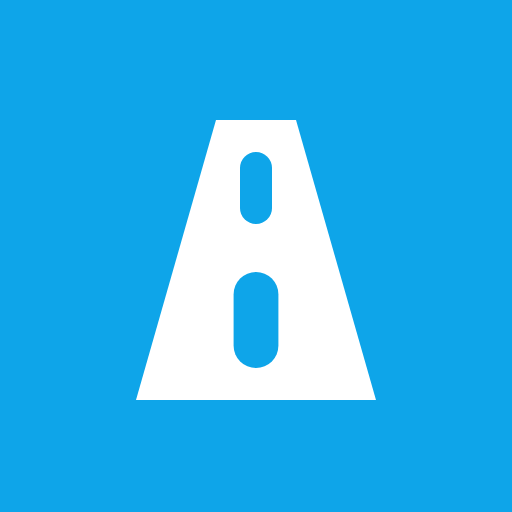
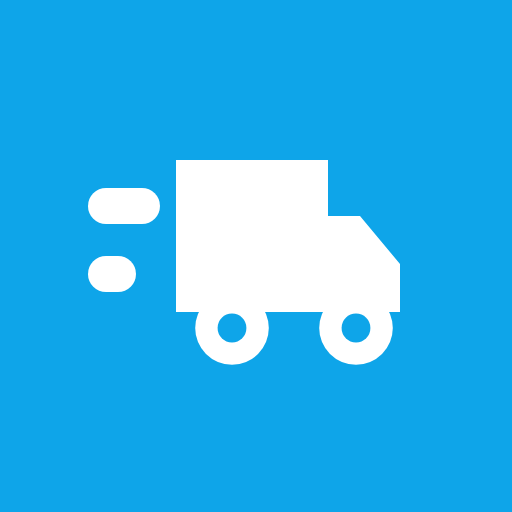
feat(brand): van mark from owner's sketch, simplified for small sizes
The owner drew a delivery van in an orange ring with speed lines and a
"24" under it. The drawing is good and it is now the brand mark, but
three things had to change so it survives where an icon actually lives:

- solid fill instead of an outline: a 2px stroke is half a pixel at 16px
  and turns to grey mush;
- no "24": the finest detail disappears first, and the wordmark next to
  the sign carries it anyway;
- full-bleed square tile, mark kept compact in the middle: Google crops
  favicons to a circle over white, so a drawing that is itself a ring
  shows up with the white halo he complained about.

Header and footer logo use the same geometry as the favicon, so the tab,
the search result and the site all show one sign. Checked: every border
pixel is brand blue at alpha 255 in all sizes, and the van still reads
at 16px under a circular crop.

Changed region(s): [[0.25, 0.2188, 0.7812, 0.7812], [0.1562, 0.3438, 0.3125, 0.4375], [0.1562, 0.5, 0.2812, 0.5938]]

diff --git a/templates/partials/_logo.html b/templates/partials/_logo.html
@@ -1,17 +1,24 @@
-{# Знак бренду — та сама дорога, що й у фавіконі.
+{# Знак бренду — той самий фургон, що й у фавіконі.
 
    Малюємо inline-SVG, а не <img>: логотип стоїть у шапці на кожній
-   сторінці, тож окремий запит за 300 байтами не має сенсу, а inline
-   до того ж дає CSS-контроль над кольором.
+   сторінці, тож окремий запит за 400 байтами не має сенсу, а inline
+   до того ж дає CSS-контроль над кольором (у футері плитка світла, а
+   фургон — синій, і це робиться однією змінною).
 
-   Раніше тут був круглий значок «24» поруч зі словом «Веземо». Тепер
-   назва пишеться повністю («Vezemo24»), а знак несе дорогу — той самий
-   малюнок, що у вкладці браузера й у видачі Google. #}
+   Геометрія збігається з static/brand/favicon.svg піксель у піксель.
+   Якщо правити тут — правити і там, інакше вкладка браузера й шапка
+   сайту почнуть показувати різні знаки. #}
 <svg class="logo__mark" viewBox="0 0 64 64" width="40" height="40" aria-hidden="true" focusable="false">
   <rect width="64" height="64" rx="12" fill="currentColor"/>
-  <path d="M17 50 L27 15 L37 15 L47 50 Z" fill="var(--logo-road, #ffffff)"/>
+  <g fill="var(--logo-road, #ffffff)">
+    <rect x="11" y="23.5" width="9" height="4.5" rx="2.25"/>
+    <rect x="11" y="32" width="6" height="4.5" rx="2.25"/>
+    <path d="M22 20 H41 V27 H45 L50 33 V39 H22 Z"/>
+    <circle cx="29" cy="41" r="4.6"/>
+    <circle cx="44.5" cy="41" r="4.6"/>
+  </g>
   <g fill="currentColor">
-    <rect x="30" y="19" width="4" height="9" rx="2"/>
-    <rect x="29.2" y="34" width="5.6" height="12" rx="2.8"/>
+    <circle cx="29" cy="41" r="1.8"/>
+    <circle cx="44.5" cy="41" r="1.8"/>
   </g>
 </svg>
